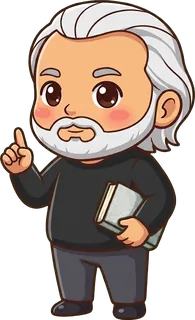
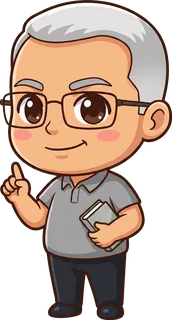
Dungu sprite baru (polo abu, kacamata), NPC Mudah/Sedang lebih kuat
Claude-Session: https://claude.ai/code/session_01JLARZQAcBAnXrBpWoZ4hJu

diff --git a/src/engine.js b/src/engine.js
@@ -493,7 +493,7 @@ function botOpp(p){return alivePlayers().filter(function(o){return o.id!==p.id;}
 function botRemain(){return S.turnLimit?Math.max(1,S.turnLimit-S.round+1):15;}
 /* worst single payment the player could face next: highest opponent rent, or the pungli tile */
 function botMaxRent(p){var m=punglAmt(p.id);for(var i=0;i<NT;i++){var o=S.tiles[i].owner;if(o!==null&&o!==p.id&&!P(o).bankrupt)m=Math.max(m,rentOf(i));}return m;}
-function botBuffer(p){var sm=S.startMoney,lv=botLvl(p);if(lv==='mudah')return 0;if(lv==='sedang')return 0.15*sm;
+function botBuffer(p){var sm=S.startMoney,lv=botLvl(p);if(lv==='mudah')return 0.04*sm;if(lv==='sedang')return Math.max(0.06*sm,Math.min(0.3*sm,botMaxRent(p)*0.6));
   return Math.max(0.06*sm,Math.min(0.45*sm,botMaxRent(p)*0.8));}
 function botTx(c){return c+txTaxAmt(c);}
 function jalurOf(i){for(var j=0;j<JALUR.length;j++)if(JALUR[j].indexOf(i)>=0)return j;return -1;}
@@ -531,7 +531,7 @@ function evalLanding(p,j,s,full,buf){
   }
   return 0;}
 function botRollEV(p,pw,lv){var d=rollDist(pw,p),ev=0,buf=botBuffer(p),k=lv||{};for(var s=2;s<=12;s++){var j=(p.pos+s)%NT,v=k[j]!=null?k[j]:(k[j]=evalLanding(p,j,s,true,buf));if(p.pos+s>=NT)v+=salaryAmt();ev+=d[s]*v;}return ev;}
-function botPower(p){var lv=botLvl(p);if(lv==='mudah')return Math.random();if(lv==='sedang')return 0.35+Math.random()*0.3;
+function botPower(p){var lv=botLvl(p);if(lv==='mudah'&&Math.random()<0.6)return 0.2+Math.random()*0.6;if(lv==='sedang'&&Math.random()<0.15)return 0.35+Math.random()*0.3;
   var memo={},best=0.5,bv=botRollEV(p,0.5,memo);[0,0.25,0.75,1].forEach(function(pw){var ev=botRollEV(p,pw,memo);if(ev>bv+1){bv=ev;best=pw;}});return best;}
 function botPelniTile(p){var lv=botLvl(p),best=-1,bv=-1e18;
   if(lv==='mudah'){var t=Math.floor(Math.random()*NT);return t===p.pos?(t+1)%NT:t;}
@@ -550,26 +550,26 @@ function botJail(p){
   return {a:'roll',power:pw};}
 function botBuy(p,i){
   var lv=botLvl(p),op=buyOptions(p,i),buf=botBuffer(p),sm=S.startMoney;if(!op.length)return 'skip';
-  if(lv==='mudah')return Math.random()<0.6?op[Math.floor(Math.random()*op.length)]:'skip';
-  if(lv==='sedang'){if(p.money-botTx(buyCost(i,0,p))<buf)return 'skip';var b=0;op.forEach(function(l){if(p.money-botTx(buyCost(i,l,p))>=2*buf)b=l;});return b;}
+  if(lv==='mudah'){if(p.money-botTx(buyCost(i,0,p))<buf)return 'skip';return Math.random()<0.92?op[Math.min(op.length-1,Math.random()<0.5?1:0)]:'skip';}
+  if(lv==='sedang'){if(p.money-botTx(buyCost(i,0,p))<buf&&!(stratValue(p,i)>=0.3*sm&&p.money-botTx(buyCost(i,0,p))>=0))return 'skip';var b=0;op.forEach(function(l){if(p.money-botTx(buyCost(i,l,p))>=2*buf)b=l;});return b;}
   var sv=stratValue(p,i),c0=botTx(buyCost(i,0,p));
   if(p.money-c0<buf&&!(sv>=0.3*sm&&p.money-c0>=0))return 'skip';
   var best=0;op.forEach(function(l){if(p.money-botTx(buyCost(i,l,p))>=buf*1.2)best=l;});return best;}
 function botBuyAsset(p,i){
   var lv=botLvl(p),pr=botTx(assetPrice(i,p)),buf=botBuffer(p);if(p.money<assetPrice(i,p))return 'no';
-  if(lv==='mudah')return Math.random()<0.6?'yes':'no';
-  if(lv==='sedang')return p.money-pr>=buf?'yes':'no';
+  if(lv==='mudah')return p.money-pr>=buf&&Math.random()<0.85?'yes':'no';
+  if(lv==='sedang')return (p.money-pr>=buf||(stratValue(p,i)>=0.3*S.startMoney&&p.money-pr>=0))?'yes':'no';
   return (p.money-pr>=buf||(stratValue(p,i)>=0.3*S.startMoney&&p.money-pr>=0))?'yes':'no';}
 function botUpgrade(p,i){
   var lv=botLvl(p),op=upgradeOptions(p,i),buf=botBuffer(p),sm=S.startMoney,b='skip';if(!op.length)return 'skip';
-  if(lv==='mudah')return Math.random()<0.2?op[0]:'skip';
+  if(lv==='mudah'){if(Math.random()<0.45&&p.money-botTx(upCost(i,op[0]))>=buf*2)return op[0];return 'skip';}
   var full=regionFull(p.id,T[i].region);
   if(lv==='sedang'){if(!(tileL(i)<=160000||full||p.money>0.6*sm))return 'skip';op.forEach(function(l){if(p.money-botTx(upCost(i,l))>=buf)b=l;});return b;}
   op.forEach(function(l){var need=(l===4&&full)?buf*0.5:buf;if(p.money-botTx(upCost(i,l))>=need)b=l;});return b;}
 function botTakeover(p,pd){
   var lv=botLvl(p),i=pd.tile,st=S.tiles[i],buf=botBuffer(p),sm=S.startMoney;
   var price=takeoverPrice(i,p),can=st.level<4&&p.money>=price,full=st.owner!==null&&regionFull(st.owner,T[i].region);
-  if(lv==='mudah')return 'no';
+  if(lv==='mudah'){if(st.level<4&&p.money-botTx(price)>=0.4*sm&&Math.random()<0.25)return 'yes';return 'no';}
   var swapOk=pd.swap!=null&&!regionFull(p.id,T[pd.swap].region);
   if(lv==='sedang'){if(swapOk&&Math.random()<0.6)return 'swap';
     var comp=regionTiles(T[i].region).every(function(k){return k===i||S.tiles[k].owner===p.id;});
